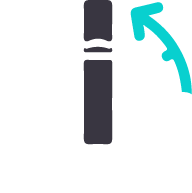
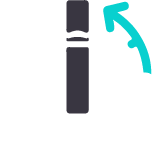
Atualizado ícone puff.webp e ajustes na página ilumaprime.html

diff --git a/ilumaprime.html b/ilumaprime.html
@@ -296,7 +296,7 @@
         display: flex;
         flex-direction: column;
         align-items: center;
-        gap: 3px;
+        gap: 2px;
       }
 
       .feature-icon {
